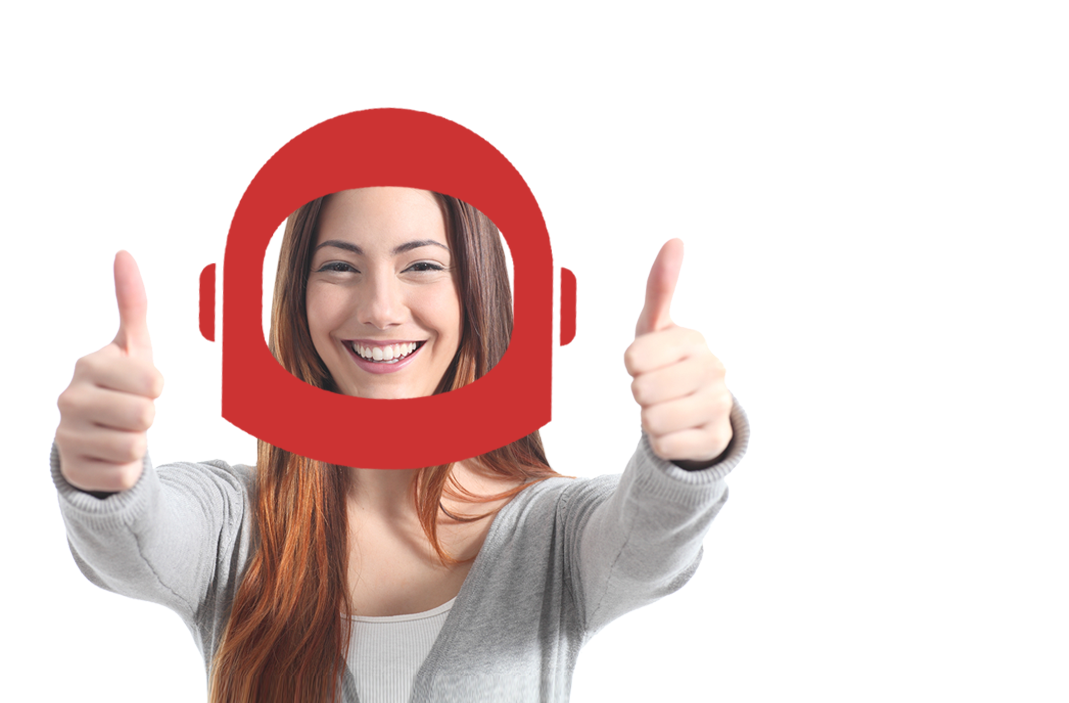
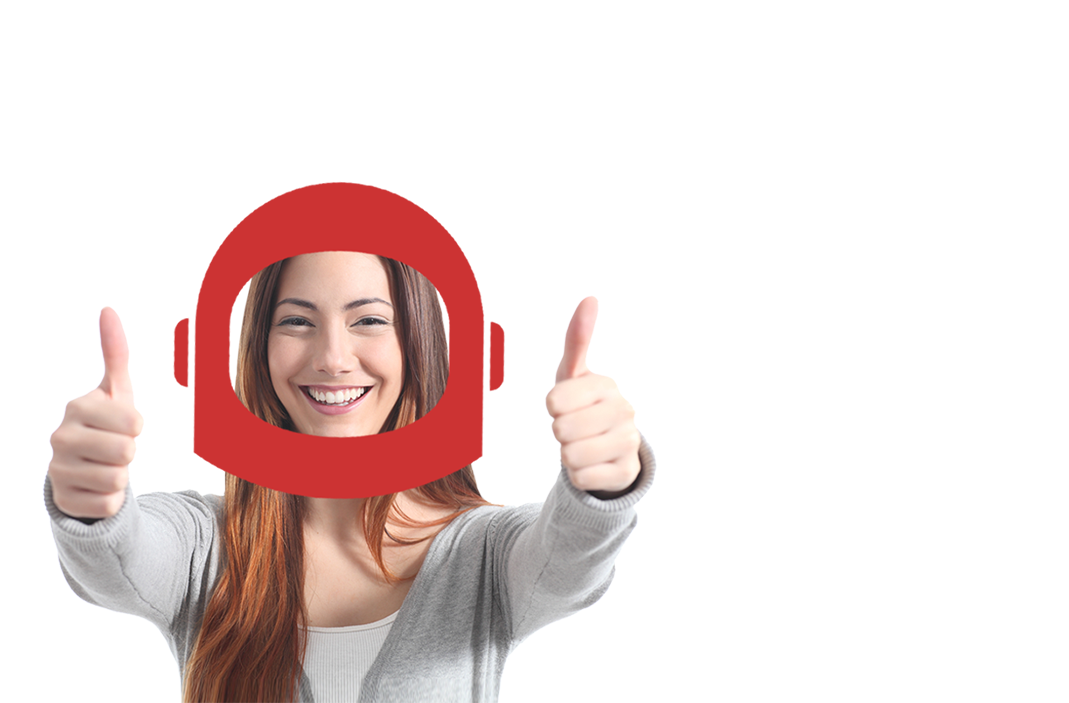
new_step

diff --git a/js/main.js b/js/main.js
@@ -31,10 +31,10 @@ $(document).ready(function() { // функции выполняются посл
             cover: "img/girl_1.png"
         },
         title: 'Amanda Burrington',
-        desc: 'I’m a volunteer on the G-a-P dog team – walking dogs at the center and participating in the Adventure Buddies program — and I’ve fostered a few litters of kittens in the past. (I definitely want foster again when my travel schedule permits!)',
+        desc: 'I’m a volunteer on the G-a-P dog team – walking dogs at the center and participating in the "Little noses" program. ',
         btnTitle: 'Action Button',
         button: {
-            text: 'about Amanda',
+            text: 'Saved by Amanda',
             url: false, // URL
             class: 'Button Class(es)',
             color: '#3781ce'
@@ -45,10 +45,10 @@ $(document).ready(function() { // функции выполняются посл
             cover: "img/guy_1.png"
         },
         title: 'Kurt Lockwood',
-        desc: 'I first started volunteering in 2015, but then ended up moving. I returned to the area at the end of 2017 and have been back in action ever since.',
+        desc: 'I started volunteering in 2015 and since that time have no chance to stop helping homeless dogs. ',
         btnTitle: 'Action Button',
         button: {
-            text: 'About Kurt',
+            text: 'Saved by Kurt',
             url: false, // URL
             class: 'Button Class(es)',
             color: '#3781ce'
@@ -62,7 +62,7 @@ $(document).ready(function() { // функции выполняются посл
         desc: 'I’ve basically been an animal lover since I was born, and for my entire childhood I planned on becoming a veterinarian. ',
         btnTitle: 'Action Button',
         button: {
-            text: 'About Ingrid',
+            text: 'Saved by Ingrid',
             url: false, // URL
             class: 'Button Class(es)',
             color: '#3781ce'

diff --git a/css/slideWiz.css b/css/slideWiz.css
@@ -1,19 +1,18 @@
 .slide-container {
-    width: 100%;
+    width: 1346px;
     height: 100%;
     overflow: hidden;
     position: absolute;
 }
 
 .slide-holder {
-    width: 1200px;
+    width: 1346px;
     height: auto;
     float: left;
     position: absolute;
     overflow: hidden;
     object-fit: contain;
     bottom: 0;
-    padding-left: 5%;
     z-index: 10;
 }
 
@@ -47,10 +46,10 @@
 /*small window in block SLIDER*/
 
 .main-image-box {
-    width: 150px;
-    height: 150px;
+    width: 200px;
+    height: 200px;
     position: absolute;
-    right: 300px;
+    right: 150px;
     z-index: 10;
     border-radius: 5px;
     transition: all 1s;
@@ -71,16 +70,16 @@
 /*text block for slider*/
 
 .detail-box {
-    width: 32%;
+    width: 35%;
+    height: auto;
     padding: 20px;
     position: absolute;
-    right: 200px;
-    bottom: -800px;
+    right: 30px;
     z-index: 10;
     transition: all 1s;
     border-radius: 5px;
     background: rgba(0, 0, 0, 0.7);
-    background: linear-gradient(to left, rgba(137, 255, 241, 0) 0%, rgba(0, 0, 0, 1) 100%);
+    background: linear-gradient(to left, rgba(47, 180, 233, 0) 0%, rgba(0, 0, 0, 1) 100%);
     overflow: hidden;
 }
 
@@ -98,22 +97,24 @@
 
 .detail-desc {
     width: 100%;
+    height: auto;
     float: left;
     margin-top: 5px;
     color: #ffffff;
-    font-size: 24px;
+    font-size: 20px;
+    font-weight: 400;
 }
 
 
 /*button for slider*/
 
 .detail-button {
-    min-width: 100px;
-    min-height: 30px;
+    width: 150px;
+    height: 30px;
     float: left;
     margin-top: 10px;
     border-radius: 3px;
     border: none;
-    color: #fff;
+    background-color: white;
     cursor: pointer;
 }

diff --git a/css/style.css b/css/style.css
@@ -8,6 +8,7 @@
     bottom: 0;
     background: url('../animate_CC/logo.gif') no-repeat;
     z-index: 20;
+    background-color: white;
 }
 
 
@@ -308,7 +309,7 @@ a {
 /*Team_block style*/
 
 .team {
-    width: 100%;
+    width: 1346px;
     height: 100%;
     overflow: hidden;
     top: 100%;
